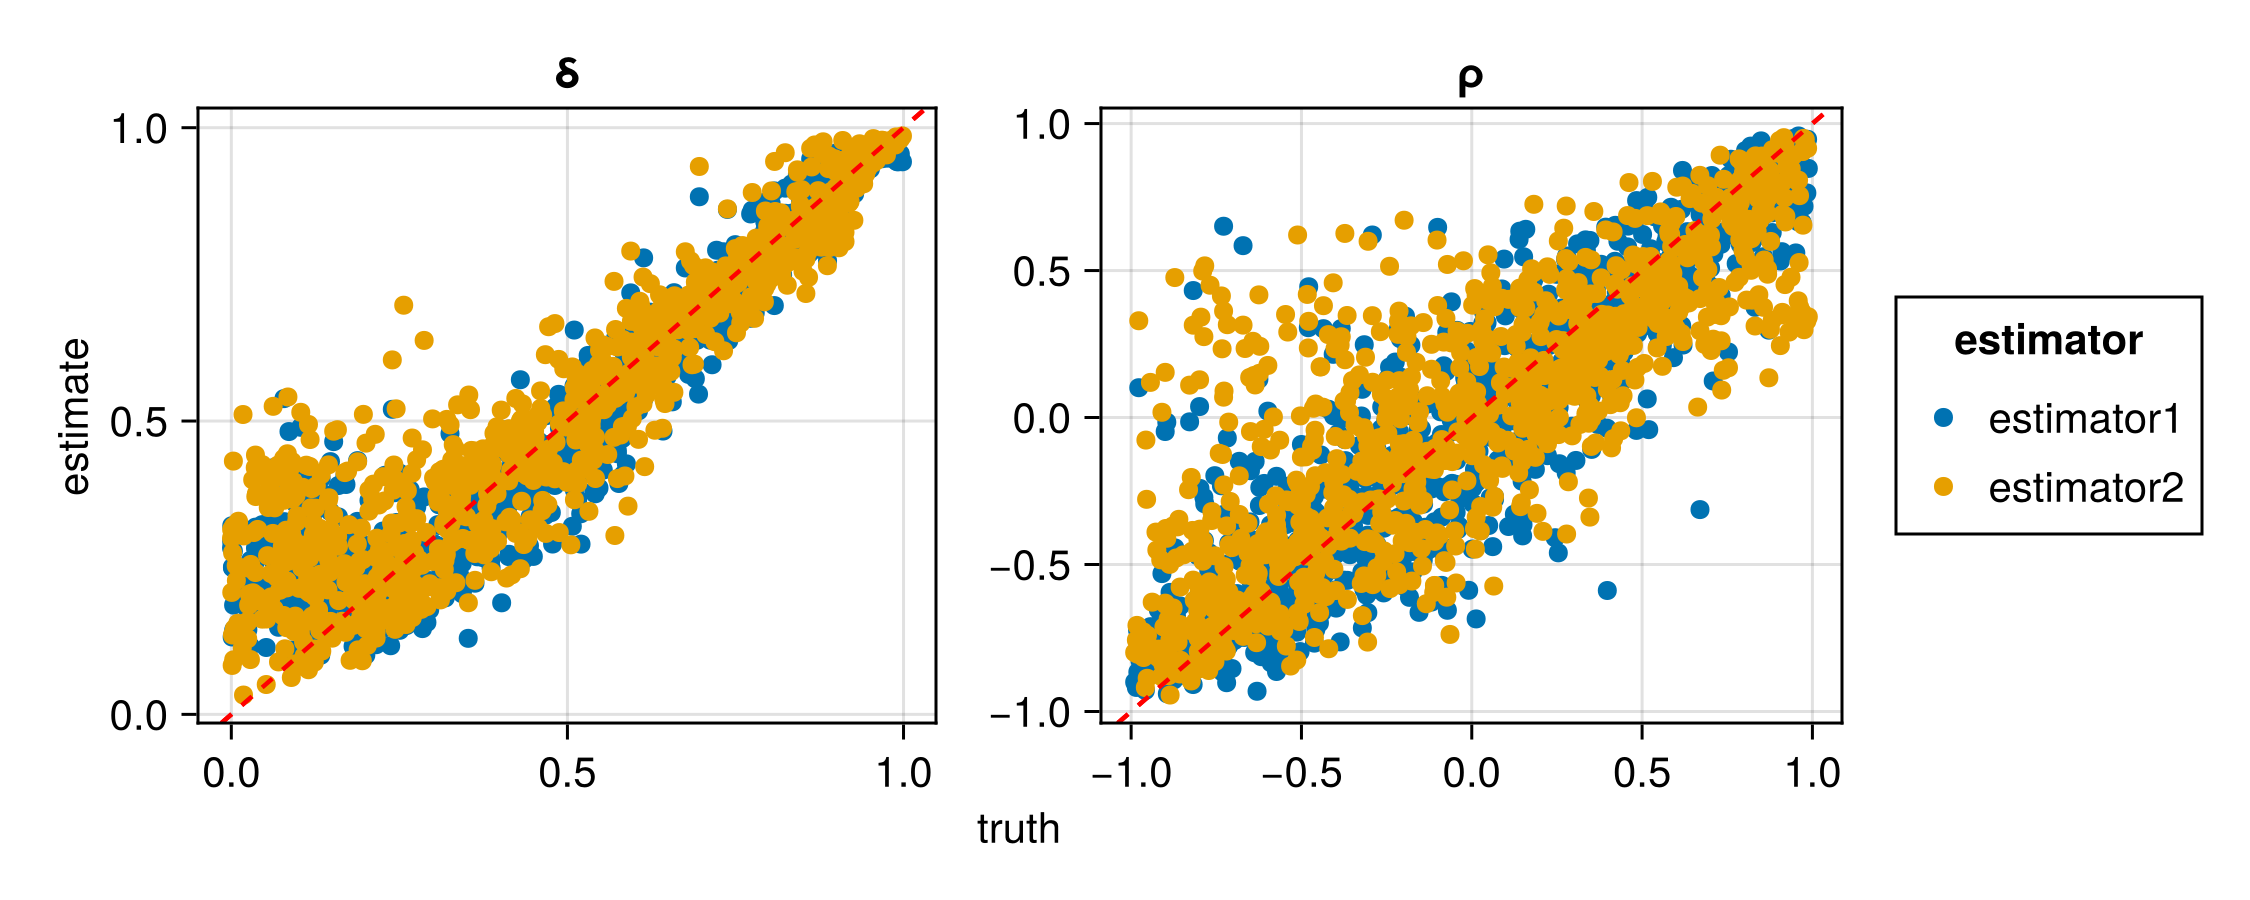
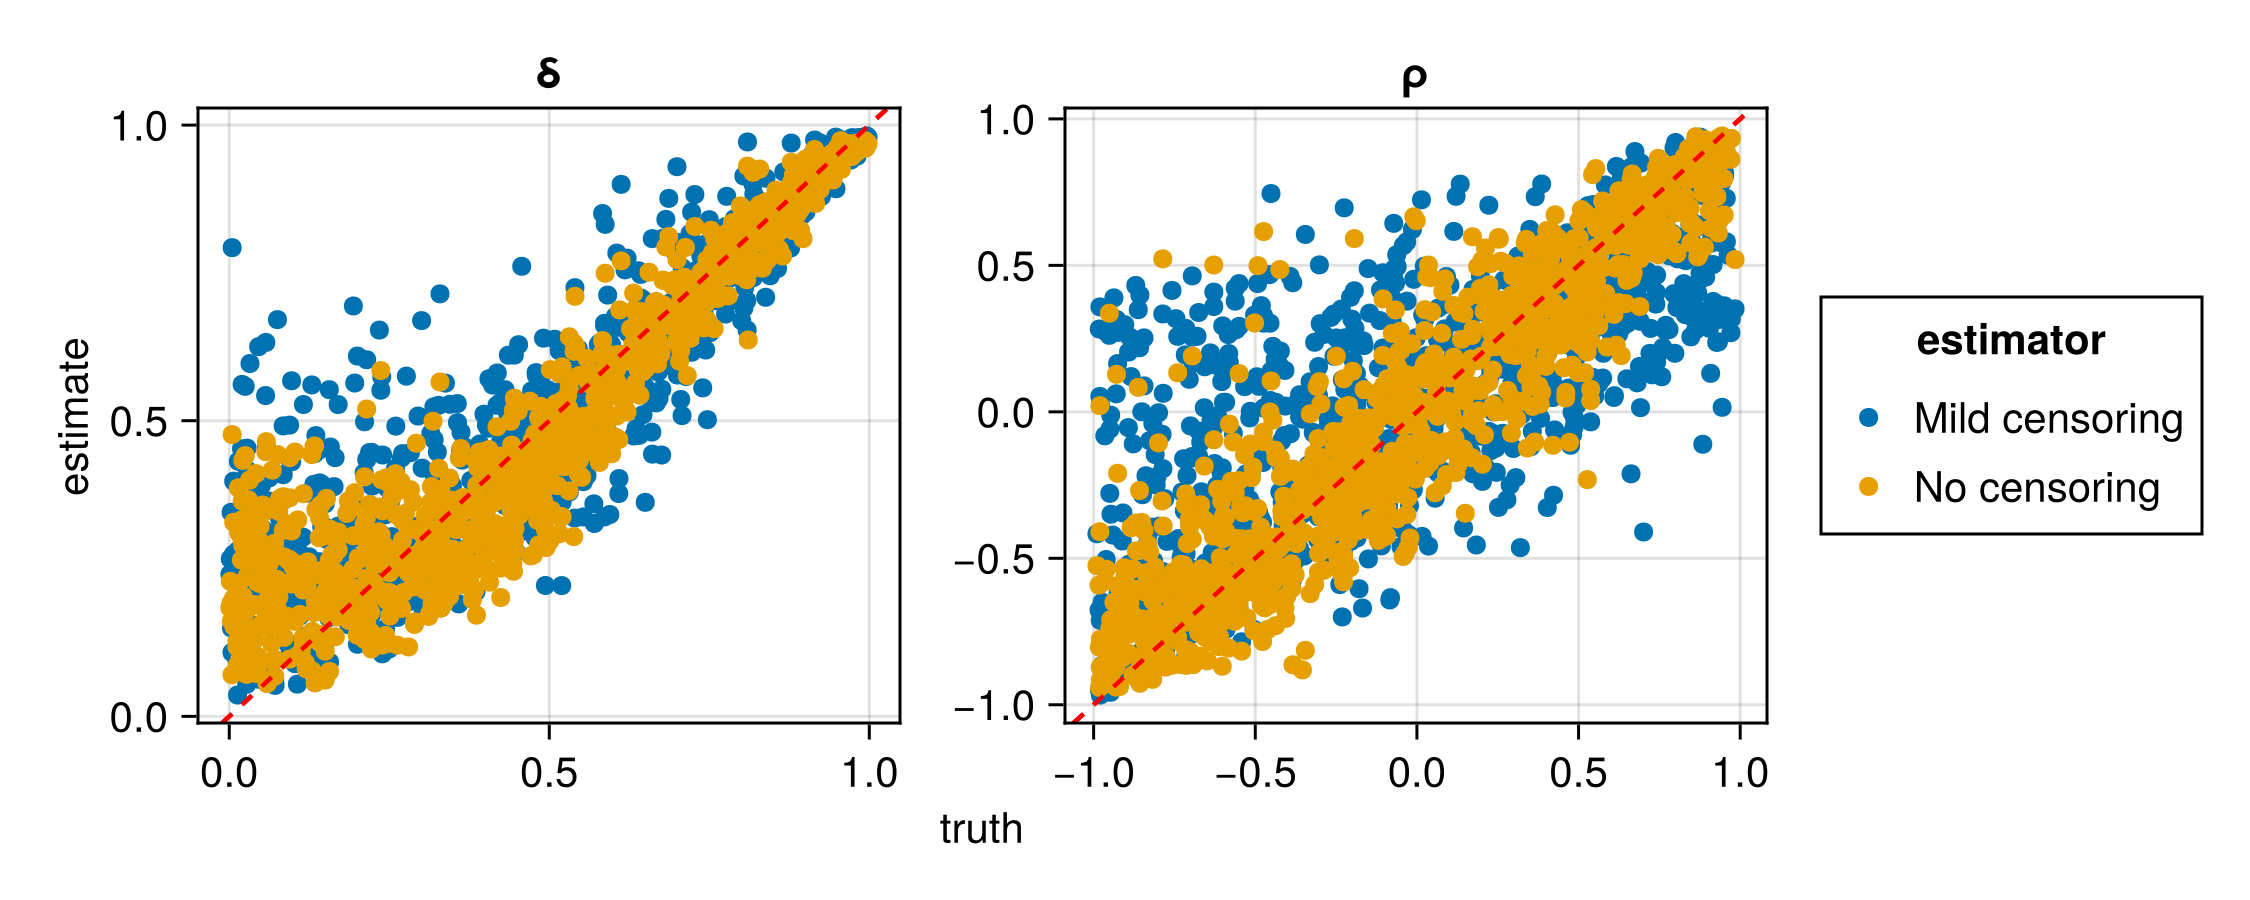
Censoring example

diff --git a/docs/src/workflow/advancedusage.md b/docs/src/workflow/advancedusage.md
@@ -391,11 +391,13 @@ As a running example, we consider a bivariate random scale Gaussian mixture copu
 ```
 where $R_i \sim \text{Exp}(1)$ and $\boldsymbol{X}_i$ is a bivariate random vector following a Gaussian copula with correlation $\rho$ and unit exponential margins. We note that the vector $\boldsymbol{Y}_i$ does not itself have unit exponential margins. Instead, its marginal distribution function, $F(y;\delta),$ is dependent on $\delta$; this has a closed form expression, see [Huser and Wadsworth (2019)](https://www.tandfonline.com/doi/full/10.1080/01621459.2017.1411813). In practice, the parameter $\delta$ is unknown, and so the random scale construction is treated as a copula and fitted to standardised uniform data. That is, the data used for inference are $\boldsymbol{Z}_i = F(\boldsymbol{Y}_i; \delta),$ which have been transformed to a uniform scale via the $\delta$-dependent marginal dsitribution function.   
 
-Simulation of the random scale mixture (on uniform margins) and its marginal ditribution function are provided below. To increase training efficiency, we apply a transformation of the input data to exponential margins.
+Simulation of the random scale mixture (on uniform margins) and its marginal ditribution function are provided below. Transforming the data to exponential margins can, in some cases, enhance training efficiency ([Richards et al., 2024](https://jmlr.org/papers/v25/23-1134.html)). However, for simplicity, we do not apply this transformation here.
+
 ```julia
 # Libraries used throughout this example
 using NeuralEstimators, Flux
 using Folds
+using CUDA # GPU if it is available
 using LinearAlgebra: Symmetric, cholesky
 using Distributions: cdf, Uniform, Normal, quantile
 using AlgebraOfGraphics, CairoMakie   
@@ -404,7 +406,8 @@ using AlgebraOfGraphics, CairoMakie
 function sample(K)
 	ρ = rand(Uniform(-0.99, 0.99), K)
 	δ = rand(Uniform(0.0, 1.0), K)
-	return vcat(ρ', δ')
+	θ = vcat(ρ', δ')
+	return θ 
 end
 
 # Marginal simulation of Z | θ
@@ -417,9 +420,8 @@ function simulate(θ, m)
 		X = L * randn(2, m)                 # Standard Gaussian margins
 		X = -log.(1 .- cdf.(Normal(), X))   # Transform to unit exponential margins
 		R = -log.(1 .- rand(1, m))         
-		Y = δ .* R .+ (1 - δ) .* X          # Transform to uniform margins
-		Z = F.(Y; δ = δ)
-		Z = -log.(1 .- Z)                   # Transform to exponential margins 
+		Y = δ .* R .+ (1 - δ) .* X          
+		Z = F.(Y; δ = δ)                     # Transform to uniform margins
 	end
 	return Z
 end
@@ -490,7 +492,7 @@ network = DeepSet(ψ, ϕ)
 estimator = PointEstimator(network)
 ```
 
-We now train and assess two estimators for censored data; one with `c = [0, 0]` and one with `c = [0.4, 0.4]`, which correspond to no and mild censoring, respectively. As expected, the neural estimator that uses non-censored data has lower RMSE, as the data it uses contain more information.
+We now train and assess two estimators for censored data; one with `c = [0, 0]` and one with `c = [0.5, 0.5]`, which correspond to no and mild censoring, respectively. As expected, the neural estimator that uses non-censored data has lower RMSE, as the data it uses contain more information.
 
 
 ```julia
@@ -502,15 +504,15 @@ simulator1(θ, m) = simulatecensored(θ, m; c = [0, 0])
 estimator1 = train(estimator, sample, simulator1, m = m) 
 
 # Train an estimator with mild censoring
-simulator2(θ, m) = simulatecensored(θ, m; c = [0.4, 0.4]) 
+simulator2(θ, m) = simulatecensored(θ, m; c = [0.5, 0.5]) 
 estimator2 = train(estimator, sample, simulator2, m = m)
 
 # Assessment
 θ_test = sample(1000) 
 UW_test1 = simulator1(θ_test, m)
 UW_test2 = simulator2(θ_test, m)
-assessment1 = assess(estimator1, θ_test, UW_test1, parameter_names = ["ρ", "δ"]) 
-assessment2 = assess(estimator2, θ_test, UW_test2, parameter_names = ["ρ", "δ"])   
+assessment1 = assess(estimator1, θ_test, UW_test1, parameter_names = ["ρ", "δ"], estimator_name = "No censoring") 
+assessment2 = assess(estimator2, θ_test, UW_test2, parameter_names = ["ρ", "δ"], estimator_name = "Mild censoring")   
 assessment  = merge(assessment1, assessment2)
 rmse(assessment)
 plot(assessment)
@@ -518,11 +520,10 @@ plot(assessment)
 
 | Estimator  | Parameter | RMSE     |
 | ----------|-----------|----------|
-| estimator1 | ρ         | 0.238167 |
-| estimator1 | δ         | 0.100688 |
-| estimator2 | ρ         | 0.324838 |
-| estimator2 | δ         | 0.115169 |
-
+| No censoring | ρ         | 0.238167 |
+| No censoring | δ         | 0.100688 |
+| Mild censoring | ρ       | 0.394838 |
+| Mild censoring | δ         | 0.135169 |
 
 ![General censoring](../assets/figures/generalcensoring.png)
 
@@ -532,12 +533,12 @@ plot(assessment)
 
 Peaks-over-threshold censoring, with $\tau$ fixed, can be easily implemented using the [General censoring](@ref) framework by setting the censoring threshold equal to the $\tau$-th quantile of the data $\boldsymbol{Z}$. Further, [Richards et al. (2024)](https://jmlr.org/papers/v25/23-1134.html) show that one can amortise a neural estimator with respect to the choice of $\tau$ by treating it as an input to the neural network. 
 
-Below, we sample a fixed set of $K$ data/parameter pairs from the prior to training. Since the data in our running example are on exponential margins, we set the censoring thresholds based on the quantile of the exponential distribution.
+Below, we sample a fixed set of $K$ parameter-data pairs for training the neural network. 
 
 ```julia
 # Sampling values of τ to use during training 
 function sampleτ(K)
-	τ = rand(Uniform(0.5, 0.9), 1, K) 
+	τ = rand(Uniform(0.0, 0.9), 1, K) 
 end
 
 # Adapt the censored data simulation to allow for τ as an input
@@ -547,15 +548,13 @@ function simulatecensored(θ, τ, m; kwargs...)
 	UW = Folds.map(1:K) do k
         Zₖ = Z[k]
         τₖ = τ[k]
-        # data are on exponential margins; set c to the τₖ-quantile of the exponential distribution
-        cₖ = -log(1 - τₖ) 
-        # Censor data and create augmented datasest
+        cₖ = τₖ # data are on uniform margins: censoring threshold equals τ
         mapslices(Z -> censorandaugment(Z; c = cₖ, kwargs...), Zₖ, dims = 1)
 	end
 end
 
 # Generate the data used for training and validation
-K = 10000  # number of training samples
+K = 50000  # number of training samples
 m = 500    # number of independent replicates in each data set
 θ_train  = sample(K)
 θ_val    = sample(K ÷ 5)
@@ -568,8 +567,8 @@ UW_val   = simulatecensored(θ_val, τ_val, m)
 In this example, the probability level $\tau$ can be incorporated as an input to the neural network by treating it as an input to the outer neural network of the [`DeepSet`](@ref) architecture. To do this, we increase the input dimension of the outer network by one, and then combine the data $\{\boldsymbol{U}, \boldsymbol{W}\}$ and $\tau$ as a tuple (see [`DeepSet`](@ref) for details). 
 
 ```julia
-# Construct DeepSet neural network
-ψ = Chain(Dense(n * 2, w, relu), Dense(w, w, relu))    
+# Construct neural network based on DeepSet architecture
+ψ = Chain(Dense(n * 2, w, relu),Dense(w, w, relu))    
 ϕ = Chain(Dense(w + 1, w, relu), final_layer)
 network = DeepSet(ψ, ϕ)
 
@@ -580,26 +579,25 @@ estimator = PointEstimator(network)
 estimator = train(estimator, θ_train, θ_val, (UW_train, τ_train), (UW_val, τ_val))
 ```
 
-Our trained estimator can now be used for any value of $\tau$ within the range used during training ($\tau \in [0.5,0.9]$). Since the estimator is amortised with respect to $\tau$, there is no need to retrain it for different degrees of censoring.
+Our trained estimator can now be used for any value of $\tau$ within the range used during training ($\tau \in [0,0.9]$). Since the estimator is amortised with respect to $\tau$, there is no need to retrain it for different degrees of censoring.
 
 Below, we assess the estimator for different values of $\tau$. As expected, RMSE increases with $\tau$ (larger $\tau$ corresponds to more censoring). 
-
 
 ```julia
 # Test parameters
 θ_test = sample(1000)
 
-# Assessment with τ fixed to 0.5
-τ_test1 = repeat([0.5], 1000)'
+# Assessment with τ fixed to 0 (no censoring)
+τ_test1  = fill(0.0, 1000)'
 UW_test1 = simulatecensored(θ_test, τ_test1, m)
-assessment1 = assess(estimator, θ_test, (UW_test1, τ_test1), parameter_names = ["ρ", "δ"], estimator_name = "τ = 0.50")   
+assessment1 = assess(estimator, θ_test, (UW_test1, τ_test1), parameter_names = ["ρ", "δ"], estimator_name = "τ = 0")   
 
-# Assessment with τ fixed to 0.85
-τ_test2 = repeat([0.85], 1000)'
+# Assessment with τ fixed to 0.8
+τ_test2  = fill(0.8, 1000)'
 UW_test2 = simulatecensored(θ_test, τ_test2, m)
-assessment2 = assess(estimator, θ_test, (UW_test2, τ_test2), parameter_names = ["ρ", "δ"], estimator_name = "τ = 0.85")   
+assessment2 = assess(estimator, θ_test, (UW_test2, τ_test2), parameter_names = ["ρ", "δ"], estimator_name = "τ = 0.8")   
 
-# Compare results between the two censoring levels
+# Compare results between the two censoring probability levels
 assessment = merge(assessment1, assessment2)
 rmse(assessment)
 plot(assessment)
@@ -607,10 +605,9 @@ plot(assessment)
 
 | Estimator  | Parameter | RMSE     |
 |------------|-----------|----------|
-| τ = 0.50   | ρ         | 0.341780 |
-| τ = 0.50   | δ         | 0.107799 |
-| τ = 0.85   | ρ         | 0.466348 |
-| τ = 0.85   | δ         | 0.124913 |
-
+| τ = 0      | ρ         | 0.241780 |
+| τ = 0      | δ         | 0.096779 |
+| τ = 0.80   | ρ         | 0.476348 |
+| τ = 0.80   | δ         | 0.124913 |
 
 ![Peaks-over-threshold censoring](../assets/figures/potcensoring.png)

diff --git a/docs/src/methodology.md b/docs/src/methodology.md
@@ -89,7 +89,7 @@ This connection links the likelihood-to-evidence ratio to the average-risk-optim
 ```math
  \boldsymbol{\gamma}^* \equiv \underset{\boldsymbol{\gamma}}{\mathrm{arg\,min}} -\sum_{k=1}^K \Big[\log\{c_{\boldsymbol{\gamma}}(\boldsymbol{Z}^{(k)}, \boldsymbol{\theta}^{(k)})\} +  \log\{1 - c_{\boldsymbol{\gamma}}(\boldsymbol{Z}^{(\sigma(k))}, \boldsymbol{\theta}^{(k)})\} \Big],
 ```
-with each $\boldsymbol{\theta}^{(k)}$ sampled independently from a "proposal" distribution $p(\boldsymbol{\theta})$, $\boldsymbol{Z}^{(k)} \sim p(\boldsymbol{Z} \mid \boldsymbol{\theta}^{(k)})$, and $\sigma(\cdot)$ a random permutation of $\{1, \dots, K\}$. The proposal distribution $p(\boldsymbol{\theta})$ does not necessarily correspond to the prior distribution $\pi(\boldsymbol{\theta})$, which is specified in the down-stream inferential algorithm (see below). In theory, any $p(\boldsymbol{\theta})$ with support over $\Theta$ can be used. However, with finite training data, the choice of $p(\boldsymbol{\theta})$ is important, as it determines where the parameters $\{\boldsymbol{\theta}^{(k)}\}$ are most densely sampled and, hence, where the neural network $c_{\boldsymbol{\gamma}^*}(\cdot, \cdot)$ best approximates the Bayes classifier. Further, since neural networks are only reliable within the support of their training samples, a $p(\boldsymbol{\theta})$ lacking full support over $\Theta$ essentially acts as a "soft prior". 
+with each $\boldsymbol{\theta}^{(k)}$ sampled independently from a "proposal" distribution $p(\boldsymbol{\theta})$, $\boldsymbol{Z}^{(k)} \sim p(\boldsymbol{Z} \mid \boldsymbol{\theta}^{(k)})$, and $\sigma(\cdot)$ a random permutation of $\{1, \dots, K\}$. The proposal distribution $p(\boldsymbol{\theta})$ does not necessarily correspond to the prior distribution $\pi(\boldsymbol{\theta})$, which is specified in the downstream inference algorithm (see below). In theory, any $p(\boldsymbol{\theta})$ with support over $\Theta$ can be used. However, with finite training data, the choice of $p(\boldsymbol{\theta})$ is important, as it determines where the parameters $\{\boldsymbol{\theta}^{(k)}\}$ are most densely sampled and, hence, where the neural network $c_{\boldsymbol{\gamma}^*}(\cdot, \cdot)$ best approximates the Bayes classifier. Further, since neural networks are only reliable within the support of their training samples, a $p(\boldsymbol{\theta})$ lacking full support over $\Theta$ essentially acts as a "soft prior". 
 
 Once the neural network is trained, $r_{\boldsymbol{\gamma}^*}(\boldsymbol{Z}, \boldsymbol{\theta}) \equiv c_{\boldsymbol{\gamma}^*}(\boldsymbol{Z}, \boldsymbol{\theta})\{1 - c_{\boldsymbol{\gamma}^*}(\boldsymbol{Z}, \boldsymbol{\theta})\}^{-1}$, $\boldsymbol{Z} \in \mathcal{Z}, \boldsymbol{\theta} \in \Theta$, may be used to quickly approximate the likelihood-to-evidence ratio, and therefore it is called a *neural ratio estimator*. 
 
